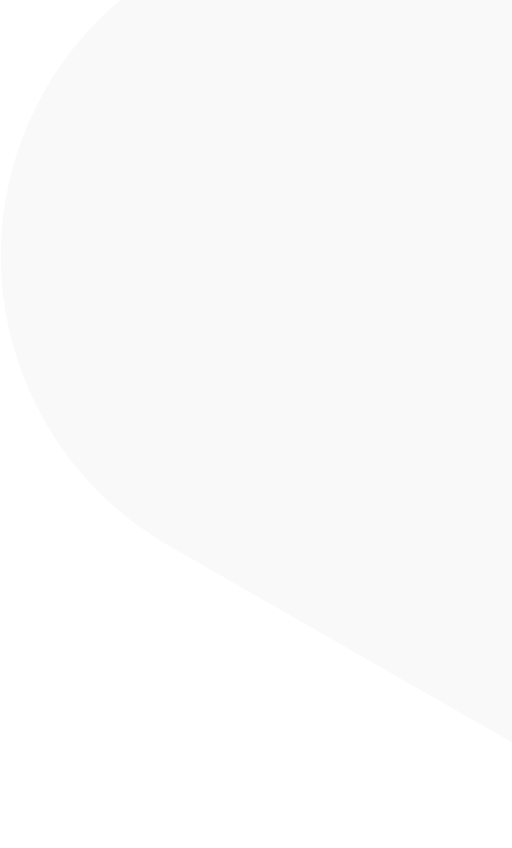
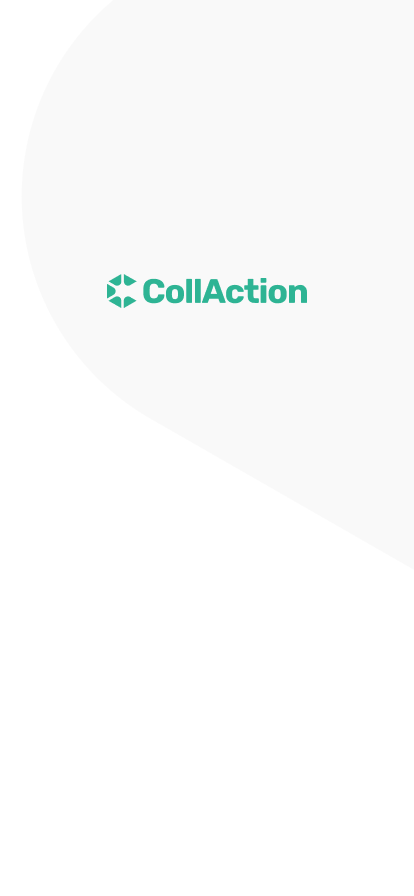
refactor: unauthenticated page

Changed region(s): [[0.2609, 0.3066, 0.7536, 0.3679]]

diff --git a/lib/presentation/auth/unauthenticated_screen.dart b/lib/presentation/auth/unauthenticated_screen.dart
@@ -16,81 +16,48 @@ class UnauthenticatedPage extends StatelessWidget {
 
     return Scaffold(
       backgroundColor: kAccentColor,
-      body: Stack(
-        children: [
-          Container(
-            height: MediaQuery.of(context).size.height * .8,
-            child: Stack(
-              alignment: Alignment.center,
-              children: [
-                Positioned(
-                  top: 0,
-                  right: 0,
-                  left: 23,
-                  child: Image.asset(
-                    "assets/images/unauthenticated_bg.png",
-                    fit: BoxFit.contain,
-                  ),
-                ),
-                Align(
-                  alignment: Alignment.center,
-                  child: Image.asset(
-                    "assets/images/logo.png",
-                    width: 200,
-                  ),
-                ),
-              ],
+      body: Container(
+        decoration: BoxDecoration(
+          image: DecorationImage(
+            fit: BoxFit.cover,
+            image: AssetImage(
+              "assets/images/unauthenticated_bg.png",
             ),
           ),
-          Align(
-            alignment: Alignment.bottomCenter,
-            child: Container(
-              child: Column(
-                mainAxisSize: MainAxisSize.min,
-                mainAxisAlignment: MainAxisAlignment.center,
-                crossAxisAlignment: CrossAxisAlignment.center,
-                children: [
-                  Text(
-                    "Start acting",
-                    style: TextStyle(
-                      fontWeight: FontWeight.w700,
-                      fontSize: 28.0,
-                      color: Colors.white,
-                    ),
-                  ),
-                  Padding(
-                    padding: const EdgeInsets.only(
-                        bottom: 64.0, left: 16, right: 16, top: 8),
-                    child: Text(
-                      "We are ready, join us and others in taking action for a better life, by doing good and having fun!",
-                      textAlign: TextAlign.center,
-                      style: TextStyle(
-                        color: Colors.white,
-                      ),
-                    ),
-                  ),
-                  Row(
-                    children: [
-                      Expanded(
-                        child: Padding(
-                          padding: const EdgeInsets.only(
-                              bottom: 100.0, left: 20, right: 20),
-                          child: PillButton(
-                            text: 'Log In',
-                            isEnabled: true,
-                            isLoading: false,
-                            onTap: () => context.router.push(const AuthRoute()),
-                            lightBackground: true,
-                          ),
-                        ),
-                      ),
-                    ],
-                  ),
-                ],
+        ),
+        child: Padding(
+          padding: const EdgeInsets.symmetric(horizontal: 20),
+          child: Column(
+            mainAxisAlignment: MainAxisAlignment.end,
+            children: [
+              Text(
+                "Start acting",
+                style: TextStyle(
+                  fontWeight: FontWeight.w700,
+                  fontSize: 28.0,
+                  color: Colors.white,
+                ),
               ),
-            ),
+              const SizedBox(height: 8),
+              Text(
+                "We are ready, join us and others in taking action for a better life, by doing good and having fun!",
+                textAlign: TextAlign.center,
+                style: TextStyle(
+                  color: Colors.white,
+                ),
+              ),
+              const SizedBox(height: 48),
+              PillButton(
+                text: 'Log In',
+                isEnabled: true,
+                isLoading: false,
+                onTap: () => context.router.push(const AuthRoute()),
+                lightBackground: true,
+              ),
+              const SizedBox(height: 80),
+            ],
           ),
-        ],
+        ),
       ),
     );
   }

diff --git a/lib/presentation/shared_widgets/pill_button.dart b/lib/presentation/shared_widgets/pill_button.dart
@@ -61,10 +61,14 @@ class PillButton extends StatelessWidget {
               )
             : ElevatedButton.icon(
                 icon: leading ?? const SizedBox(),
-                label: Text(text,
-                    style: TextStyle(
-                      color: lightBackground ? kAccentColor : Colors.white,
-                    )),
+                label: Text(
+                  text,
+                  style: TextStyle(
+                    fontWeight: FontWeight.w700,
+                    fontSize: 15,
+                    color: lightBackground ? kAccentColor : Colors.white,
+                  ),
+                ),
                 onPressed: isEnabled ? onTap : null,
                 style: ButtonStyle(
                   backgroundColor: MaterialStateProperty.resolveWith<Color?>(
